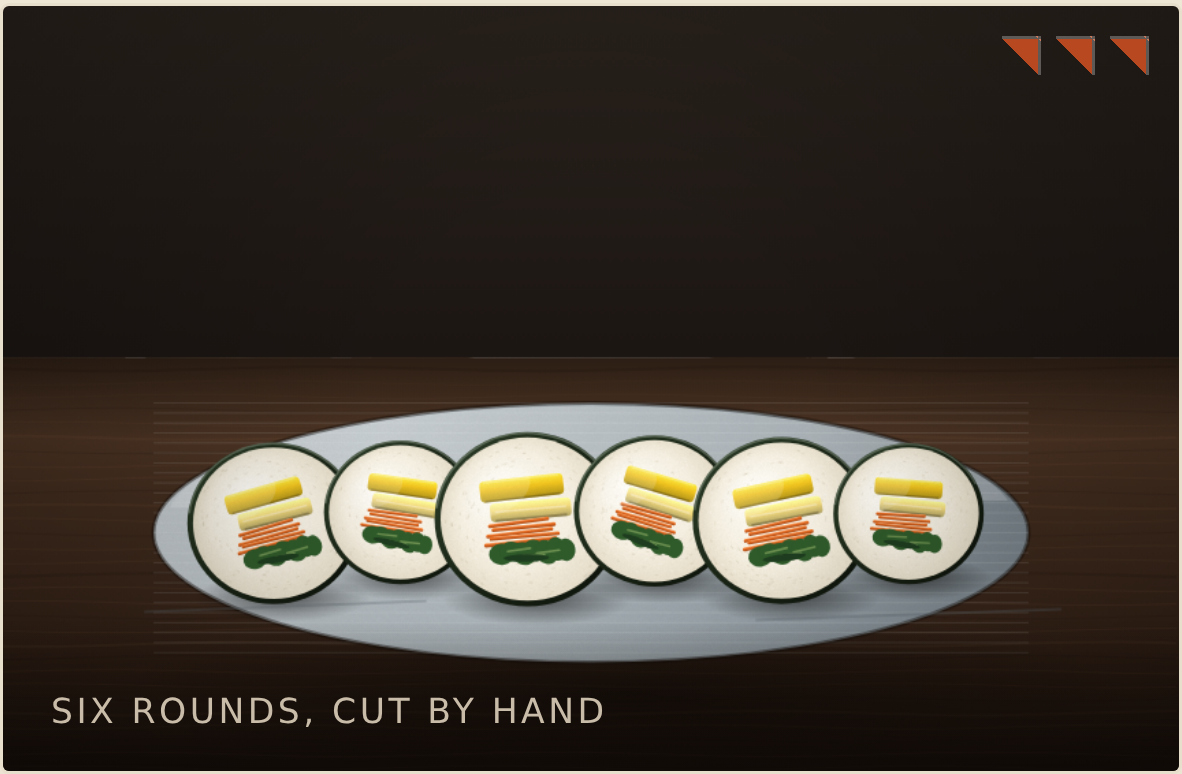
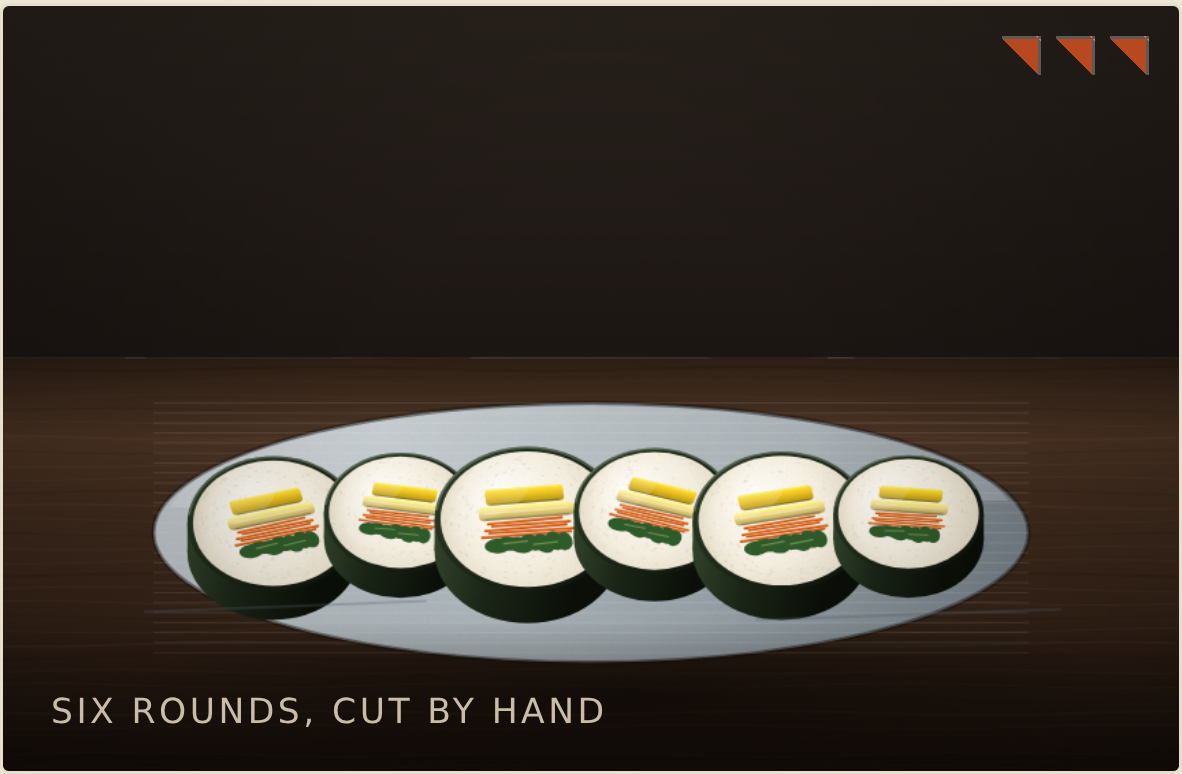
A puck, not a coin — and the cylinder rounds the pile
Two more corrections, both about the container rather than the section.

A SLICE HAS THICKNESS. Roughly 2cm on a 4cm face. Lying face-up with the
camera above you see the cut face AND a band of the nori-wrapped side
below it, and dominoed you see the side of each one in front of the face
of the next. Every version until now drew a flat disc, which is why they
never sat on the board: a coin lies on a surface like a sticker, a puck
stands on it.

THE ROLL ROUNDS THE PILE. The filling was a rectangular grid of four long
rows -- which is what a pile looks like BEFORE it is wrapped. Wrapping
squeezes it into a roughly circular cluster, so each row is a chord of a
circle now, 2*C*sqrt(1-t^2), computed rather than chosen: narrow at top
and bottom, widest across the middle, and the whole pile smaller and
tighter than a grid wants to be.

The general form, which is why both went into the skill rather than only
this folder: a soft thing takes the shape of what encloses it. Dough in a
tin, filling in a roll, wool in a sack, cargo in a hull, grain in a silo.
Square corners inside a round container is a drawing of the moment before
it was closed.

And: whenever you cut a length off something, ask how thick the cut was
and draw that.

Artifact republished, version 6.

Claude-Session: https://claude.ai/code/session_012JA3dcaZZzoeL8Tv5bKpKz

Changed region(s): [[0.1523, 0.5581, 0.8528, 0.8062]]

diff --git a/docs/mocks/2026-09-15-simmer-book/README.md b/docs/mocks/2026-09-15-simmer-book/README.md
@@ -214,3 +214,28 @@ shape is not permission to lose mass.* Four ingredients fill a roll as completel
 each one is bigger. A handful of spinach is a handful, not a garnish.
 
 `gimbap-one-roll.png` is the current state. The `how-its-made` skill carries both rules now.
+
+
+---
+
+## 2026-09-16 — a puck, not a coin, and a pile the cylinder rounded
+
+> *"the pile cant be that big…its more of a pile that gets rounded together inside a cilinder… even
+> if they are bein seen from above, they have depth, maybe not in this exact view but its hard to get
+> that view especially when they are dominoed together"*
+
+Two corrections, both about the **cylinder** rather than the section:
+
+**1 · A slice has thickness.** Roughly 2 cm on a 4 cm face. Lying face-up with the camera above, you
+see the cut face **and a band of the nori-wrapped side** below it — and dominoed, you see the side of
+each one in front of the face of the next. Every version before this drew a flat disc, which is why
+they never sat on the board: a coin lies on a surface like a sticker, a puck stands on it.
+
+**2 · The roll rounds the pile.** The filling had been built as a rectangular grid of four long rows,
+which is what a pile looks like **before** it is wrapped. Wrapping squeezes it into a roughly
+circular cluster, so each row is now a **chord of a circle** — `2·C·√(1−t²)`, computed rather than
+chosen — narrow at the top and bottom, widest across the middle, and the whole pile is smaller.
+
+**The general form, which is why this went into the skill and not just this folder:** *a soft thing
+takes the shape of what encloses it.* Dough in a tin, filling in a roll, wool in a sack, cargo in a
+hull. **Square corners inside a round container is a drawing of the moment before it was closed.**

diff --git a/.claude/skills/how-its-made/SKILL.md b/.claude/skills/how-its-made/SKILL.md
@@ -77,6 +77,26 @@ filling went straight back to being a badge in a field of rice — the fault fro
 **Fixing shape is not permission to lose mass.** Four ingredients fill a roll as completely as eight,
 because each one is bigger. A handful of spinach is a handful, not a garnish.
 
+## And two more, which are about the CONTAINER
+
+**A cut piece of a long thing is a PUCK, not a coin.**
+A gimbap slice is about 2 cm thick on a 4 cm face. Lying face-up with the camera above it you see the
+cut face **and a band of the side** — and when several are dominoed together you see the side of each
+one in front of the face of the next. Four versions drew flat discs. A disc never sits on the board;
+it lies on it like a sticker. **Whenever you cut a length off something, ask how thick the cut was,
+and draw that.**
+
+**A container ROUNDS what it holds.**
+The owner: *"its more of a pile that gets rounded together inside a cilinder."* The filling was built
+as a rectangular grid of long rows, which is what a pile looks like **before** it is wrapped. Rolling
+squeezes it into a roughly circular cluster, so each row is a **chord of a circle** — narrow at the
+top and bottom, widest across the middle — and the whole pile is smaller and tighter than a grid
+wants to be. The widths are computed (`2·C·√(1−t²)`), not chosen.
+
+The general form: **a soft thing takes the shape of what encloses it.** Dough in a tin, filling in a
+roll, wool in a sack, cargo in a hull, grain in a silo. If your contents have square corners and the
+container is round, the drawing is of the moment before it was closed.
+
 ## The five questions, before you draw anything
 
 **1 · How was it made? Say the steps out loud.**
